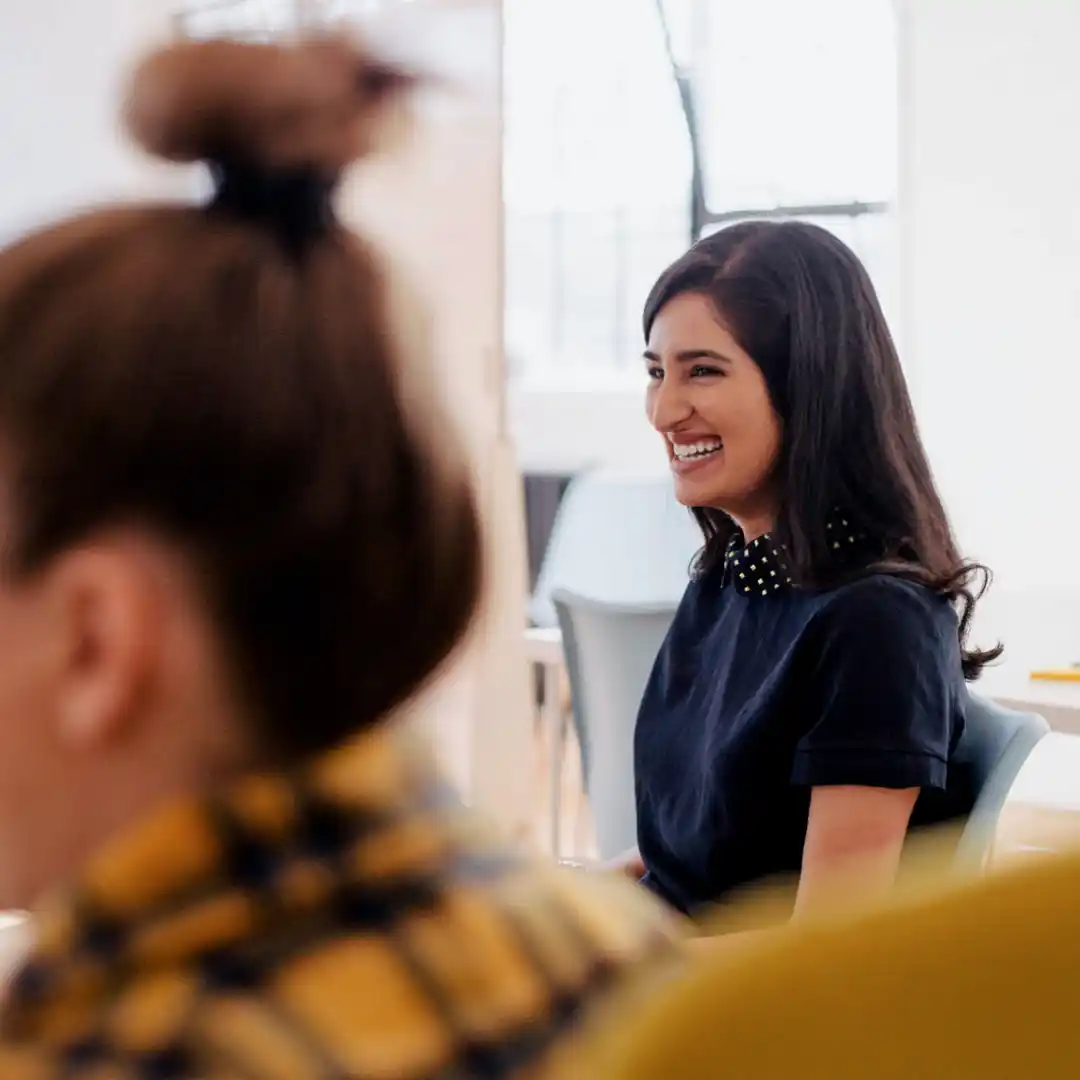
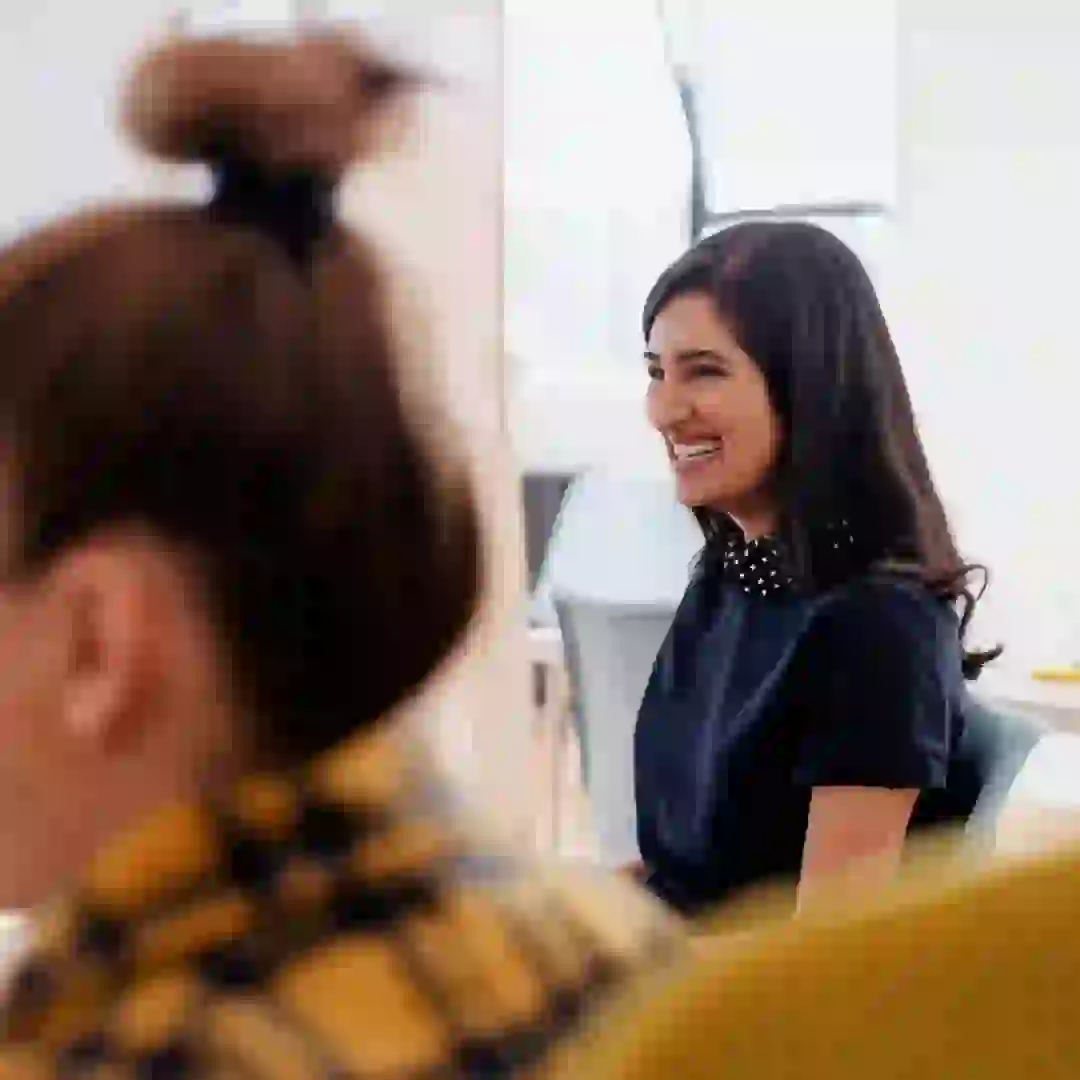
Image compression

diff --git a/index.html b/index.html
@@ -83,7 +83,7 @@
 	</main>
 	<section id="about">
 		<div class="picture left">
-			<img src="./assets/images/nina.png" alt="photo de Nina Carducci">
+			<img src="./assets/images/nina_carducci.webp" alt="photo de Nina Carducci">
 		</div>
 		<div id="about-me">
 			<h2 class="about-me__title">A propos de moi</h2>
@@ -91,7 +91,7 @@
 				prédestiné. Saisir un moment, une émotion, une situation, un endroit, une lumière et les rendre
 				immortels, voilà ce qui me fait vibrer.</h3>
 			<p>Nous passons notre vie à chercher le bonheur, et lorsque nous y touchons, nous n’avons qu’une envie : le
-			figer au travers de photographies pour le savourer avec les personnes qui sont importantes à nos yeux,
+				figer au travers de photographies pour le savourer avec les personnes qui sont importantes à nos yeux,
 				ou le partager au plus grand nombre.
 				C’est ce que je vous propose : saisir ces merveilleux moments au travers de mon regard, mon approche, ma
 				technique. Rendre ces moments immortels, afin que vous puissiez y puiser de l’amour, du bonheur, de la
@@ -103,34 +103,33 @@
 		<div class="container py-3">
 			<div class="gallery" style="display: none">
 				<img data-gallery-tag="Concert" class="gallery-item"
-				src="./assets/images/gallery/concerts/concert_aaron-paul.webp" alt="Concert stage illuminated in red" 
-				/>
-				<!-- width="440" height="440" -->
+					src="./assets/images/gallery/concerts/concert_aaron-paul.webp"
+					alt="Concert stage illuminated in red" width="440" height="440" />
 				<!-- src="./assets/images/gallery/concerts/aaron-paul-wnX-fXzB6Cw-unsplash.jpg" alt="Festival -->
 				<img data-gallery-tag="Entreprises" class="gallery-item"
-					src="./assets/images/gallery/entreprise/ali-morshedlou-entreprise.webp"
+					src="./assets/images/gallery/entreprise/ali-morshedlou-entreprise.webp" width="440" height="440"
 					alt="Portrait of a man in a suit" />
 				<img data-gallery-tag="Entreprises" class="gallery-item"
-					src="./assets/images/gallery/entreprise/jason-goodman-entreprise.webp"
+					src="./assets/images/gallery/entreprise/jason-goodman-entreprise.webp" width="440" height="440"
 					alt="Women chatting at work" />
 				<img data-gallery-tag="Mariages" class="gallery-item"
-					src="./assets/images/gallery/mariage/hannah-busing-mariage.webp"
+					src="./assets/images/gallery/mariage/hannah-busing-mariage.webp" width="440" height="440"
 					alt="Couple's hands holding each other's fingertips" />
 				<img data-gallery-tag="Portrait" class="gallery-item"
-					src="./assets/images/gallery/portraits/ade-tunji-portrait.webp"
+					src="./assets/images/gallery/portraits/ade-tunji-portrait.webp" width="440" height="440"
 					alt="Portrait of a man squinting" />
 				<img data-gallery-tag="Mariages" class="gallery-item"
-					src="./assets/images/gallery/mariage/jakob-owens-mariage.webp" 
+					src="./assets/images/gallery/mariage/jakob-owens-mariage.webp" width="440" height="440"
 					alt="Wedding couple under the palm trees" />
 				<img data-gallery-tag="Portrait" class="gallery-item"
-					src="./assets/images/gallery/portraits/nino-van-prattenburg-portrait.webp"
+					src="./assets/images/gallery/portraits/nino-van-prattenburg-portrait.webp" width="440" height="440"
 					alt="Portrait of a young woman with glasses" />
 				<img data-gallery-tag="Concert" class="gallery-item"
-					src="./assets/images/gallery/concerts/concert-austin-neill.webp"
+					src="./assets/images/gallery/concerts/concert-austin-neill.webp" width="440" height="440"
 					alt="Person holding a microphone on stage" />
 				<img data-gallery-tag="Entreprises" class="gallery-item"
-					src="./assets/images/gallery/entreprise/mateus-campos-felipe-entreprise.webp"
-					alt="Woman smiling in front of her computer" />
+					src="./assets/images/gallery/entreprise/mateus-campos-felipe-entreprise.webp" width="440"
+					height="440" alt="Woman smiling in front of her computer" />
 			</div>
 		</div>
 		<div class="quote">
@@ -217,18 +216,18 @@
 
 	<footer>
 		<div class="nav footer">
-		  <ul>
-			<li>Nina Carducci</li>
-			<li>Photographe professionnelle</li>
-			<li>68 avenue Alsace-Lorraine, 33200 Bordeaux</li>
-			<li>05 56 67 78 89</li>
-			<li>Du lundi au vendredi de 10 h à 19 h</li>
-		  </ul>
+			<ul>
+				<li>Nina Carducci</li>
+				<li>Photographe professionnelle</li>
+				<li>68 avenue Alsace-Lorraine, 33200 Bordeaux</li>
+				<li>05 56 67 78 89</li>
+				<li>Du lundi au vendredi de 10 h à 19 h</li>
+			</ul>
 		</div>
 		<!-- <div class="footer_right">
 		  <p>© 2024 Nina Carducci</p>
 		</div> -->
-	  </footer>
+	</footer>
 </body>
 
 </html>

diff --git a/assets/style.css b/assets/style.css
@@ -6,9 +6,7 @@ body {
 	font-family: 'Inter';
 	font-style: normal;
 }
-/* :root {
-	color: ;
-} */
+
 /* Header */
 .top-header {
 	background-color: white;
@@ -122,6 +120,8 @@ body {
 }
 .gallery-item {
 	position: absolute;
+	/* width: 440px;
+	height: 440px; */
 	width: 100%;
 	/* height: auto; */
 	height: 100%;
